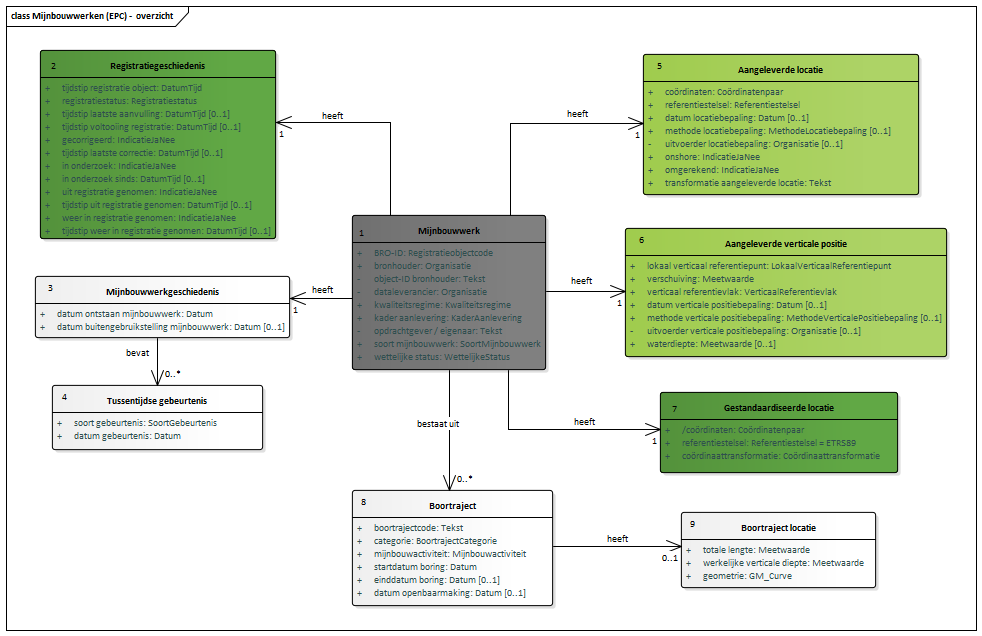
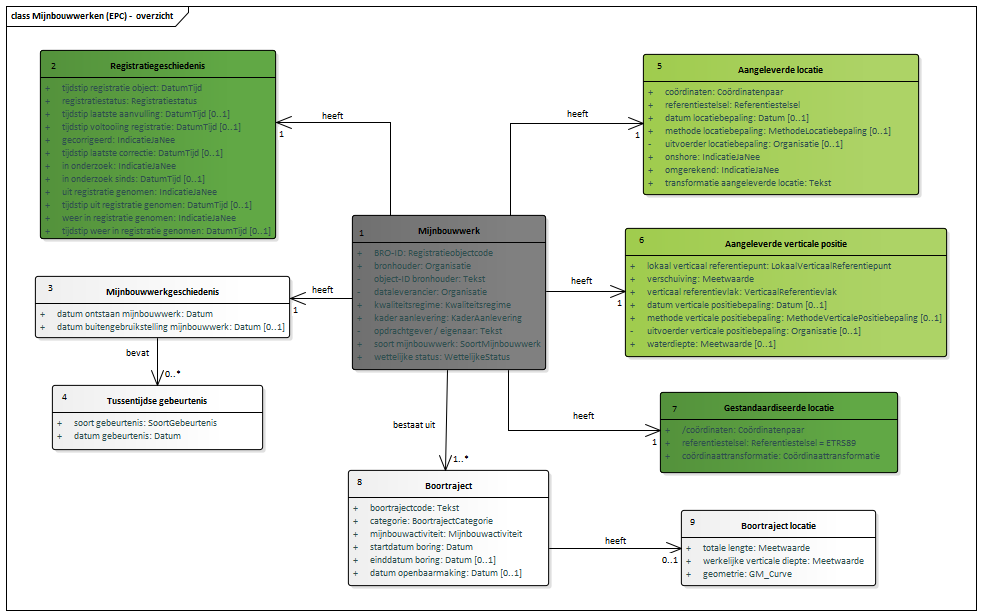
Conceptualmodel-MijnbouwconstructiesEPC-conceptueel-0.1versie27juli2020-1-20200727-20201028-122855

diff --git a/data/EPC-cat.msword.html b/data/EPC-cat.msword.html
@@ -15,7 +15,7 @@
    <body>
       <p>Conceptual model/Mijnbouwconstructies (EPC) - conceptueel/20200727</p>
       <p>Imvertor: 1.61.3</p>
-      <p>Model release: Conceptualmodel-MijnbouwconstructiesEPC-conceptueel-0.1versie27juli2020-1-20200727-20201028-114001</p>
+      <p>Model release: Conceptualmodel-MijnbouwconstructiesEPC-conceptueel-0.1versie27juli2020-1-20200727-20201028-122855</p>
       <hr>
       <section>
          <h1>Artikel 1 Definitie van registratieobject, entiteiten en attributen</h1>
@@ -61,7 +61,7 @@
          <section>
             <h2>Het domeinmodel</h2>
             <section id="">
-               <div class="imageinfo overview"><img src="Images/EAID_017CB205_53B6_4659_8664_F773CFA9FA2C.png" usemap="#imagemap-EAID_017CB205_53B6_4659_8664_F773CFA9FA2C" alt="Diagram "><map name="imagemap-EAID_017CB205_53B6_4659_8664_F773CFA9FA2C"><area shape="rect" alt="Tussentijdse gebeurtenis" coords="52,385,263,450" href="#graph_EAID_9C6EA470_E1F4_479d_B21A_A6E8EA9D3F88"><area shape="rect" alt="Mijnbouwwerkgeschiedenis" coords="35,276,290,338" href="#graph_EAID_C36A9725_3F81_4f6c_BDE2_5CED730905A2"><area shape="rect" alt="Boortraject locatie" coords="681,512,876,588" href="#graph_EAID_410F626E_1E87_47b5_AB5A_014C2D41B9B7"><area shape="rect" alt="Gestandaardiseerde locatie" coords="660,392,898,473" href="#graph_EAID_95E39295_3080_4135_862A_30756039B864"><area shape="rect" alt="Boortraject" coords="352,490,553,606" href="#graph_EAID_4E52826A_2252_4994_8AD0_986AD45E18C9"><area shape="rect" alt="Mijnbouwwerk" coords="352,215,546,370" href="#graph_EAID_69DE8D60_7E06_4b57_94CD_8338348EDAE5"><area shape="rect" alt="Registratiegeschiedenis" coords="40,50,276,239" href="#graph_EAID_8550146B_496A_40ca_BE86_AFD377E5A6D8"><area shape="rect" alt="Aangeleverde verticale positie" coords="625,228,947,357" href="#graph_EAID_A249D799_B098_49cd_98AA_DCAE0EB07DE7"><area shape="rect" alt="Aangeleverde locatie" coords="643,54,919,195" href="#graph_EAID_EDA11EEA_8FED_44be_AC04_18B58CB46F11"></map><p><b>Mijnbouwwerken (EPC) -  overzicht</b></p>
+               <div class="imageinfo overview"><img src="Images/EAID_017CB205_53B6_4659_8664_F773CFA9FA2C.png" usemap="#imagemap-EAID_017CB205_53B6_4659_8664_F773CFA9FA2C" alt="Diagram "><map name="imagemap-EAID_017CB205_53B6_4659_8664_F773CFA9FA2C"><area shape="rect" alt="Tussentijdse gebeurtenis" coords="52,385,263,450" href="#graph_EAID_9C6EA470_E1F4_479d_B21A_A6E8EA9D3F88"><area shape="rect" alt="Mijnbouwwerkgeschiedenis" coords="35,276,290,338" href="#graph_EAID_C36A9725_3F81_4f6c_BDE2_5CED730905A2"><area shape="rect" alt="Boortraject locatie" coords="681,510,876,586" href="#graph_EAID_410F626E_1E87_47b5_AB5A_014C2D41B9B7"><area shape="rect" alt="Gestandaardiseerde locatie" coords="660,392,898,473" href="#graph_EAID_95E39295_3080_4135_862A_30756039B864"><area shape="rect" alt="Boortraject" coords="348,470,549,586" href="#graph_EAID_4E52826A_2252_4994_8AD0_986AD45E18C9"><area shape="rect" alt="Mijnbouwwerk" coords="352,215,546,370" href="#graph_EAID_69DE8D60_7E06_4b57_94CD_8338348EDAE5"><area shape="rect" alt="Registratiegeschiedenis" coords="40,50,276,239" href="#graph_EAID_8550146B_496A_40ca_BE86_AFD377E5A6D8"><area shape="rect" alt="Aangeleverde verticale positie" coords="625,228,947,357" href="#graph_EAID_A249D799_B098_49cd_98AA_DCAE0EB07DE7"><area shape="rect" alt="Aangeleverde locatie" coords="643,54,919,195" href="#graph_EAID_EDA11EEA_8FED_44be_AC04_18B58CB46F11"></map><p><b>Mijnbouwwerken (EPC) -  overzicht</b></p>
                </div>
             </section>
          </section>
@@ -2291,9 +2291,6 @@
                                  
                                  <p>De identificatie van een boortraject binnen de scope van een boorgat in de registratie
                                     ondergrond.</p>
-                                 
-                                 <p>
-                                    <strong>JV:</strong> open punt wat technische vereisten zijn.</p>
                                  </td>
                            </tr>
                            <tr>
@@ -2311,6 +2308,13 @@
                            <tr>
                               <th>&nbsp;&nbsp;Naam</th>
                               <td>Tekst </td>
+                           </tr>
+                           <tr>
+                              <th>Regels</th>
+                              <td>
+                                 
+                                 <p>De boortrajectcode is uniek binnen de set met boortrajecten waaruit een boorgat bestaat.</p>
+                                 </td>
                            </tr>
                         </tbody>
                      </table>
@@ -2723,8 +2727,11 @@
                               <th>Toelichting</th>
                               <td>
                                  
-                                 <p>Binnen het vakgebied mijnbouw is dit gegeven ook bekend onder de naam True Vertical
-                                    Depth (TVD).</p>
+                                 <p>Binnen het vakgebied mijnbouw is dit gegeven ook bekend onder de naam 'True Vertical
+                                    Depth' (TVD). Elders in de basisregistratie ondergrond is dit gegeven bekend onder
+                                    de naam 'einddiepte'.
+                                    De werkelijke verticale diepte wordt door de bronhouder berekend op basis van door
+                                    de operator aangeleverde gegevens.</p>
                                  </td>
                            </tr>
                         </tbody>
@@ -2771,7 +2778,9 @@
                                  <p>Het beginpunt van de geometrie van een boortraject dient te liggen op de geometrie
                                     van een ander boortraject van hetzelfde mijnbouwwerk.
                                     De geometrie van een boortraject mag niet kruisen met zichzelf of met de geometrie
-                                    van een ander boortraject van hetzelfde mijnbouwwerk.</p>
+                                    van een ander boortraject van hetzelfde mijnbouwwerk.
+                                    De geometrie wordt door de bronhouder samengesteld op basis van door de operator aangeleverde
+                                    gegevens.</p>
                                  </td>
                            </tr>
                         </tbody>
